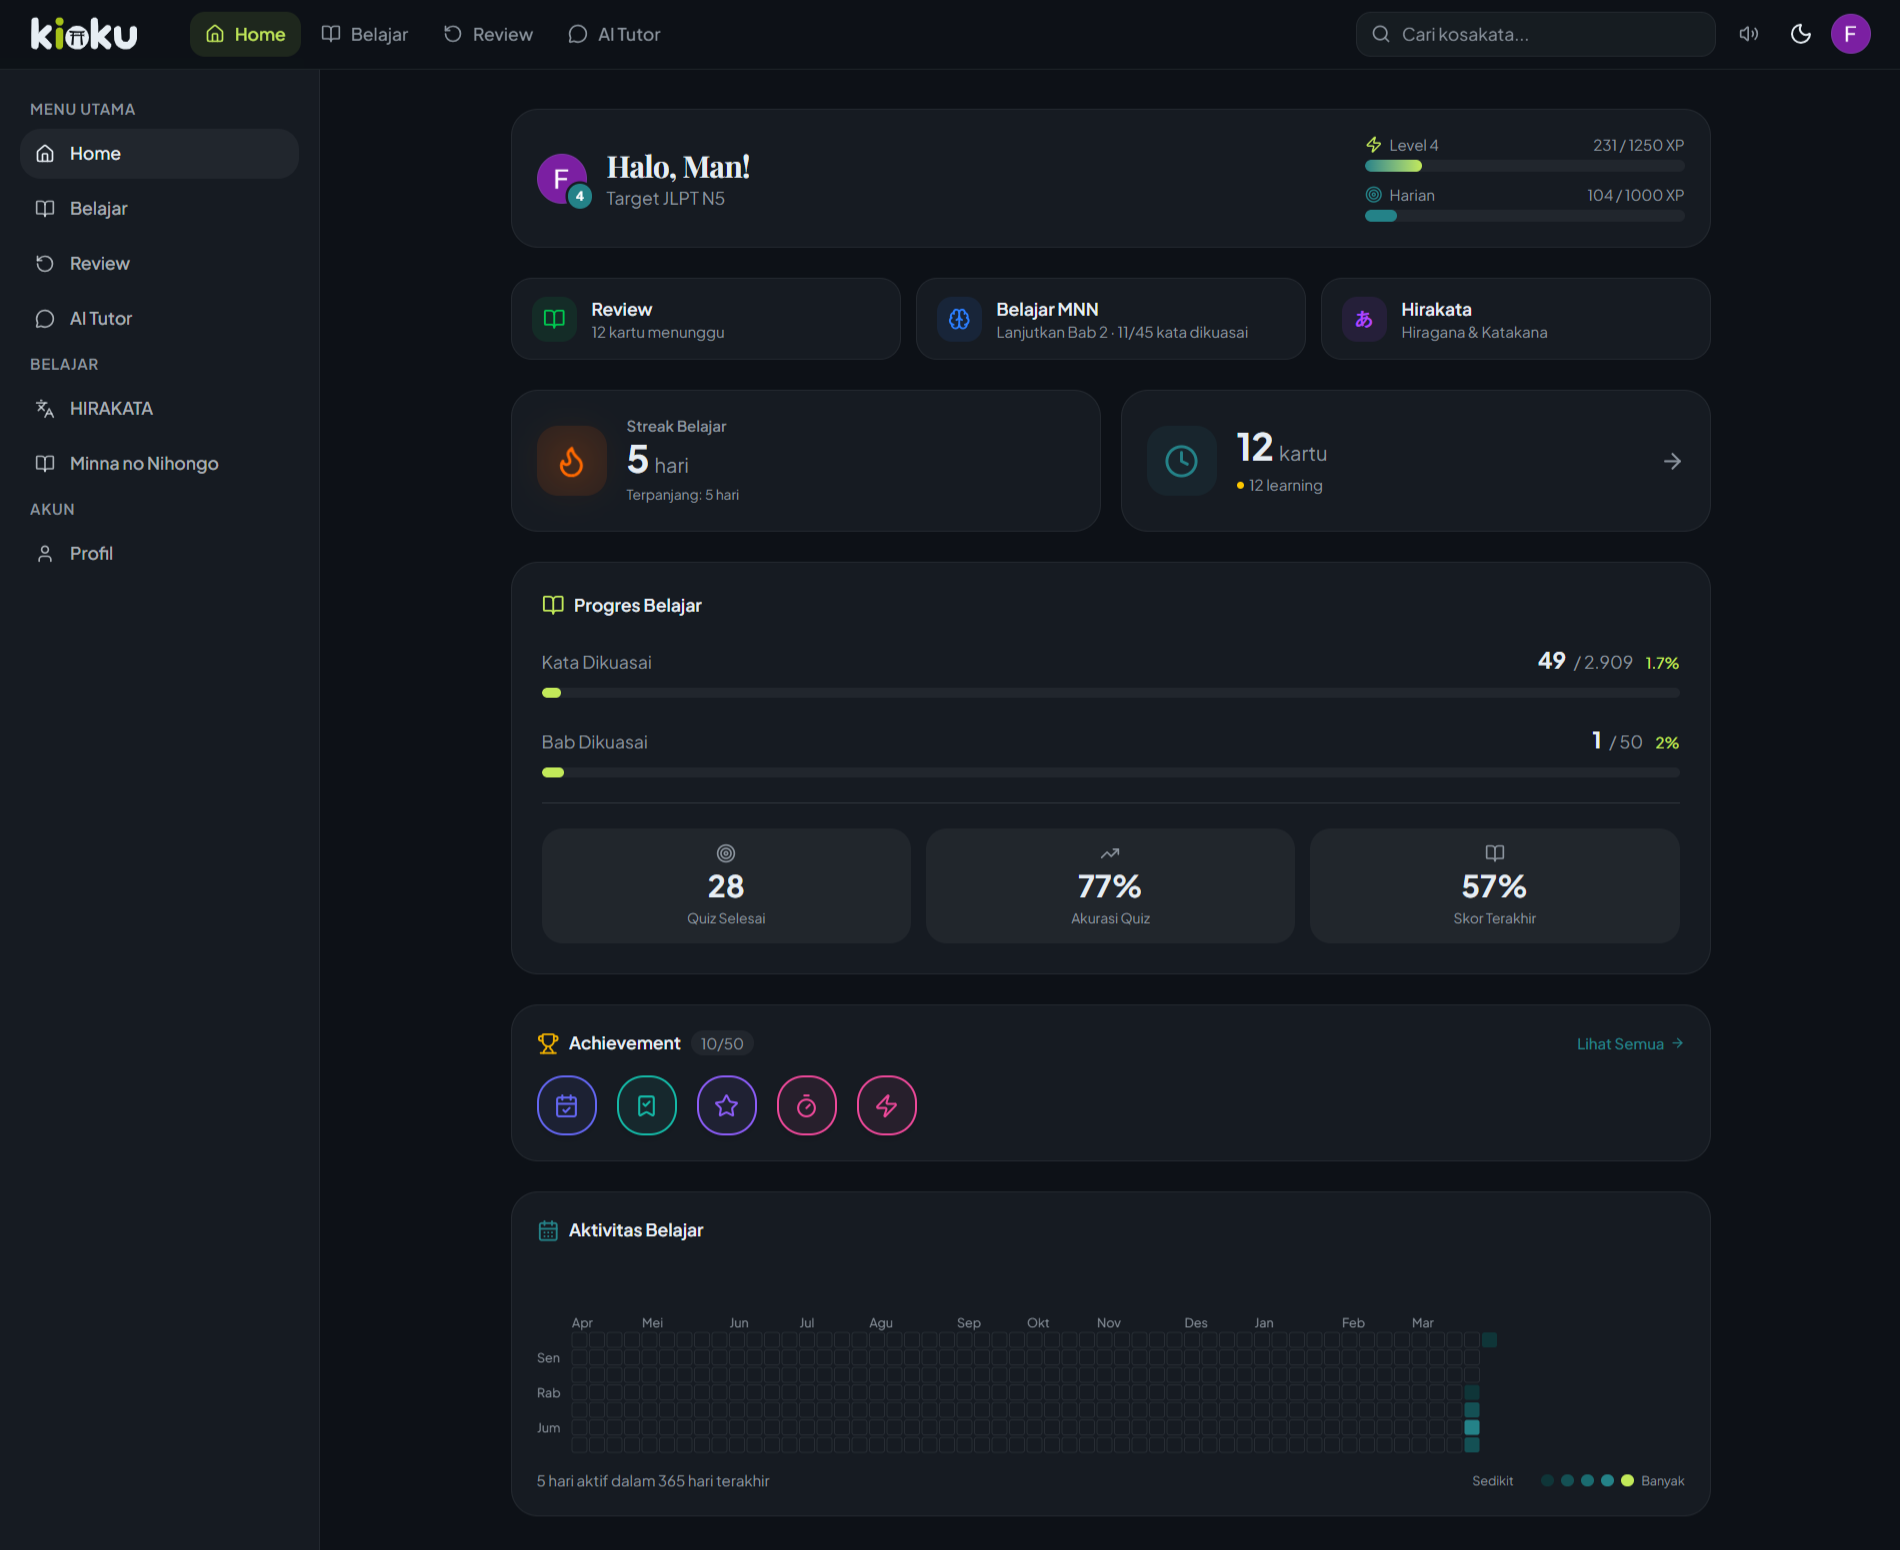
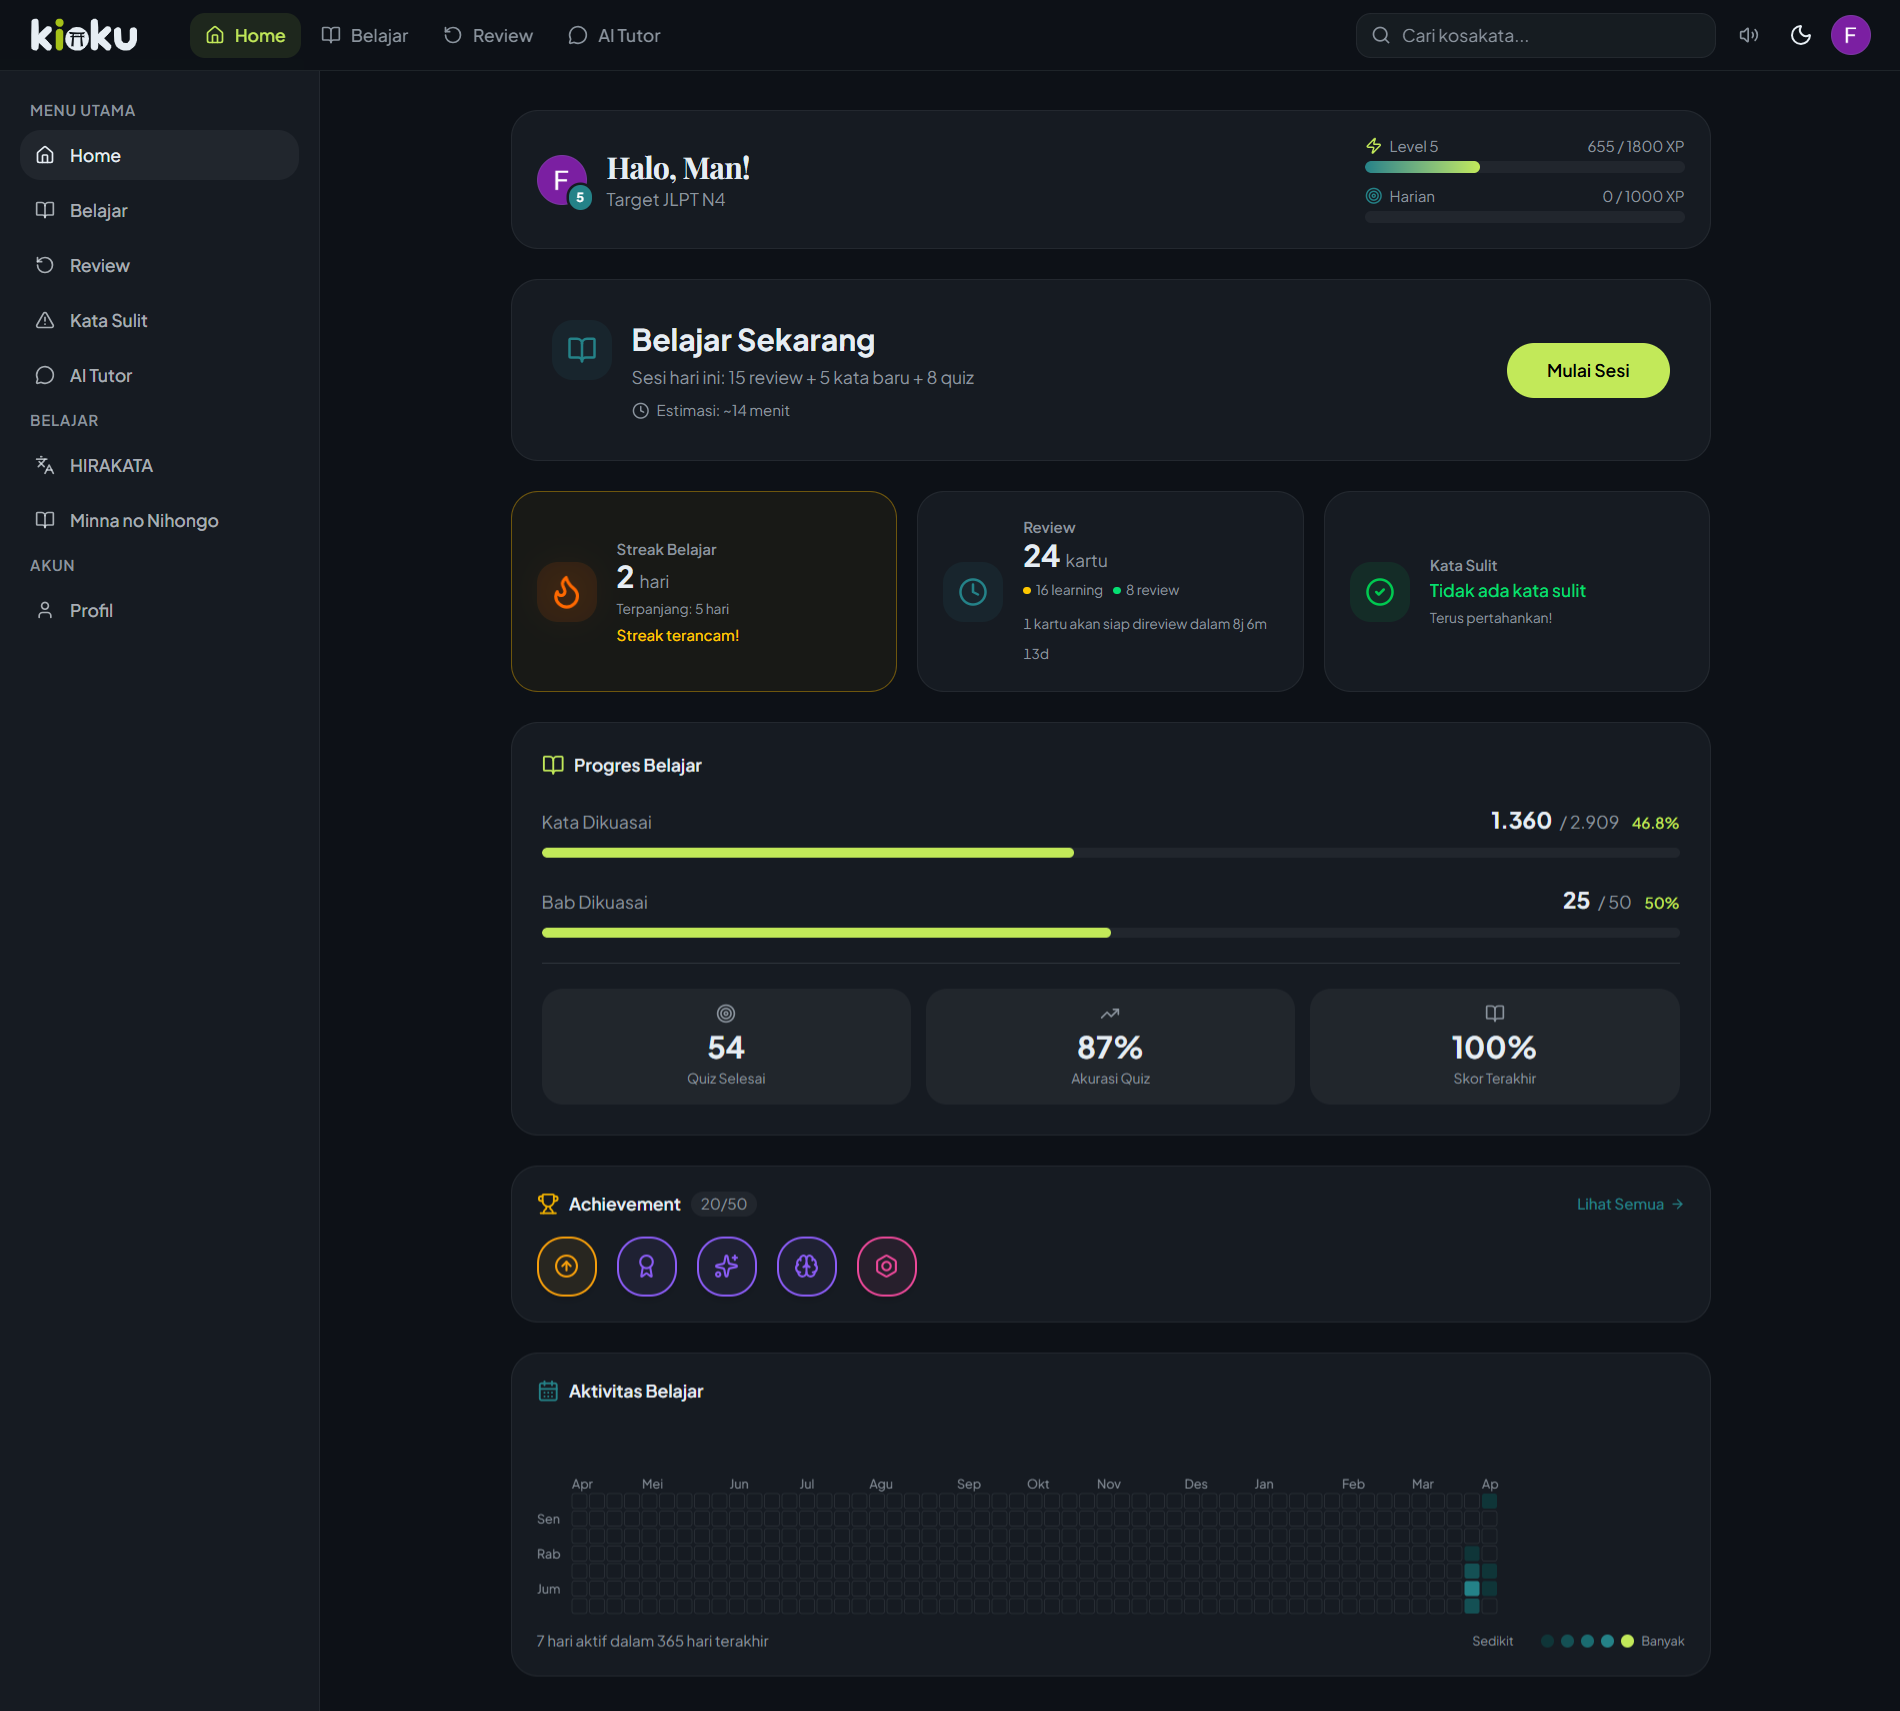
docs: update CLAUDE.md and README.md with Smart Study, Leech Detection, and all recent changes
- CLAUDE.md: Add [P5] Smart Study & Leech Detection section (28 items), new API endpoints, folder structure, technical notes
- README.md: Add Smart Study Session and Leech Detection features, 3 new screenshots, 2 new technical decisions
- Update screenshots: full-dashboard, landing (modified), smart-study-session, smart-study-summary, kata-sulit (new)

diff --git a/CLAUDE.md b/CLAUDE.md
@@ -56,6 +56,8 @@ USER:    GET|PUT /api/v1/user/profile  POST /api/v1/user/onboarding  GET /api/v1
 CONTENT: GET /api/v1/books  GET /api/v1/books/:slug/chapters  GET /api/v1/chapters/:slug(/vocabulary)
          GET /api/v1/vocabulary/:id|search  GET /api/v1/kana(/:category)  GET /api/v1/jlpt/:level/vocabulary
 SRS:     GET /api/v1/srs/due|stats  GET /api/v1/srs/chapter/:id|kana/:cat  POST /api/v1/srs/cards|review
+STUDY:   GET /api/v1/study/session|status
+LEECH:   GET /api/v1/leech/cards|confused-pairs|summary
 QUIZ:    POST /api/v1/quiz/start  POST /api/v1/quiz/:id/answer|complete  GET /api/v1/quiz/history|:id
 AI:      POST /api/v1/ai/chat(streaming)  GET /api/v1/ai/chat/sessions|:id/messages  DELETE /api/v1/ai/chat/:id
          POST /api/v1/ai/generate-questions|pronunciation/check
@@ -103,6 +105,8 @@ src/
 ├── app/(dashboard)/learn/hirakata/# HIRAKATA module
 ├── app/(dashboard)/learn/mnn/[chapter]/
 ├── app/(dashboard)/review/        # SRS review session
+├── app/(dashboard)/smart-study/   # Smart Study session (3 phases)
+├── app/(dashboard)/kata-sulit/    # Leech detection + training
 ├── app/(dashboard)/quiz/[chapter]/# Quiz session
 ├── app/(dashboard)/chat/          # AI tutor
 ├── app/(dashboard)/profile/       # Settings, stats, achievements
@@ -111,6 +115,8 @@ src/
 ├── components/{pwa,auth}/         # PWA install + auth components
 ├── lib/{srs,ai,audio,supabase}/   # Business logic
 ├── lib/{rate-limit,gamification,progress}/ # Rate limiting, XP, progress
+├── lib/{smart-study,leech}/       # Smart Study + leech detection services
+├── lib/utils/                     # Timezone (WIB) + shared utilities
 ├── stores/                        # Zustand stores
 ├── db/{schema,migrations,seed}/   # Drizzle schema + seed data
 └── types/                         # Shared TypeScript types
@@ -123,6 +129,7 @@ src/
 - **[P2] Gamification**: XP system + streak + achievements + dashboard stats + heatmap + PWA
 - **[P3] AI**: Chatbot (Gemini waterfall + streaming) + pronunciation (Web Speech API) + auto-generate quiz bank
 - **[P4] Polish & UX**: Landing page, auth redesign, review improvements, security audit, SEO, JLPT auto-upgrade
+- **[P5] Smart Study & Leech**: Smart Study session (3 phases), leech detection, dashboard redesign, bug fixes
 
 ---
 
@@ -219,6 +226,38 @@ src/
 - [x] Review bug fixes: duplicate review, reviewed_at timestamp
 - [x] Error messages translated to Indonesian
 
+### [P5] Smart Study & Leech Detection
+
+- [x] Smart Study Session ("Belajar Sekarang") — 3 phases: review due cards + learn new words + quiz
+- [x] Smart Study backend: smart-study-service.ts (generateSmartSession, getSmartSessionStatus)
+- [x] Smart Study API: GET /api/v1/study/session, GET /api/v1/study/status
+- [x] Smart Study UI: full session page with phase indicator, Framer Motion transitions
+- [x] Smart Study new words: selected based on user progress + JLPT target
+- [x] Smart Study quiz: 8 questions from mix of review + new words (no matching/speaking types)
+- [x] Smart Study summary: breakdown per phase, XP breakdown, count-up animation
+- [x] Smart Study bonus: +15 XP on session complete (idempotent)
+- [x] Smart Study: Kanji/Kana toggle in all 3 phases + feedback
+- [x] Dashboard redesign: "Belajar Sekarang" large CTA card (surface color, lime button)
+- [x] Dashboard: remove 3 old cards (Review/Belajar MNN/Hirakata)
+- [x] Dashboard: 3 small cards (Streak, Review Breakdown with countdown, Kata Sulit)
+- [x] Dashboard countdown: "X kartu siap direview sekarang" or "X kartu akan siap direview dalam..."
+- [x] Leech detection backend: leech-service.ts (getLeechCards, getConfusedPairs, getLeechSummary)
+- [x] Leech API: GET /api/v1/leech/cards, confused-pairs, summary
+- [x] Kata Sulit page (/kata-sulit): 2 tabs (Sering Lupa + Sering Tertukar) + Kanji/Kana toggle
+- [x] Leech training (/kata-sulit/latihan): Phase 1 intensive flashcard (retry 5x) + Phase 2 forced recall quiz (3 hard types)
+- [x] Sidebar badge: red badge showing leech count
+- [x] Logout overlay redesign: full-screen elegant (deep teal gradient, Framer Motion)
+- [x] CTA "Tersedia sebagai aplikasi" centered
+- [x] Streak bug fix: no reset when user skips a day, fixed with validateStreak()
+- [x] Timezone audit: 6 files fixed from UTC to WIB (Asia/Jakarta) via centralized timezone.ts
+- [x] Schema fix: 24 columns .default("now()") changed to .$defaultFn() across 6 schema files
+- [x] XP tracking: fix literal "now()" string in xp_transaction + daily_activity reset bug
+- [x] Quiz feedback: follows Kanji/Kana toggle (furigana style)
+- [x] Review countdown: clarified labels ("X kartu siap direview sekarang" vs "X kartu akan siap direview dalam...")
+- [x] OG image path fix
+- [x] Unused imports cleanup
+- [x] Comprehensive audit: 80+ checks across 16 areas, zero remaining issues
+
 ---
 
 ## Catatan Teknis (Diupdate Seiring Development)
@@ -234,3 +273,9 @@ src/
 - Onboarding: FORCED — dashboard layout redirect ke /onboarding jika onboarding_done = false.
 - Security: SECURITY-AUDIT.md full report. Rate limiting in-memory. Security headers di next.config.ts.
 - Daily goal: 5 tier (100/300/500/750/1000 XP).
+- Smart Study kata baru: berdasarkan progress aktual user, bukan hanya JLPT target. JLPT target hanya starting point untuk user baru.
+- Leech threshold: lapses >= 4. Confused pairs: dari quiz_answer history, confusion_count >= 2.
+- Bonus XP: smart study session complete +15 XP, leech training complete +20 XP.
+- Timezone utility: `src/lib/utils/timezone.ts` — single source of truth untuk semua date calculations (WIB/Asia/Jakarta).
+- Schema timestamps: semua pakai `.$defaultFn(() => new Date().toISOString())`, bukan `.default("now()")`.
+- Streak validation: validateStreak() dipanggil saat dashboard load, tidak auto-reset jika user skip hari.

diff --git a/README.md b/README.md
@@ -50,6 +50,15 @@ Content sourced from **Minna no Nihongo** Book I (Ch. 1-25, JLPT N5) and Book II
 ### Hiragana & Katakana Grid
 ![Kana Grid](./public/screenshots/kana-grid-kioku.png)
 
+### Smart Study Session
+![Smart Study](./public/screenshots/smart-study-session-kioku.png)
+
+### Session Summary with XP Breakdown
+![Summary](./public/screenshots/smart-study-summary-kioku.png)
+
+### Kata Sulit (Leech Detection)
+![Kata Sulit](./public/screenshots/kata-sulit-kioku.png)
+
 ### Review Summary
 ![Review](./public/screenshots/review-summary-kioku.png)
 
@@ -60,10 +69,12 @@ Content sourced from **Minna no Nihongo** Book I (Ch. 1-25, JLPT N5) and Book II
 ## Features
 
 ### Learning
+- **Smart Study Session** — One-click optimal study session ("Belajar Sekarang") with 3 phases: review due cards, learn new words, and quiz. Adaptive chapter selection based on JLPT target and user progress
 - **HIRAKATA Module** — Learn 214 hiragana & katakana characters with an interactive color-coded grid, flashcards, and quizzes
 - **MNN Vocabulary** — 2,909 words from Minna no Nihongo Ch. 1-50 (JLPT N5 & N4), with Indonesian translations
 - **Vocabulary Flashcard** — 2-button design (Don't Know / Know) with retry queue (max 3x), simpler than Anki's 4-button approach
 - **SRS Review** — 4-button FSRS rating (Again / Hard / Good / Easy) with re-queue for failed cards (max 3x)
+- **Leech Detection ("Kata Sulit")** — Automatic detection of frequently forgotten words (lapses >= 4) and confused word pairs from quiz history. Specialized training with intensive flashcard (5x retry) and forced recall quiz
 - **Duolingo-style Quiz** — 7 question types: multiple choice (JP-ID, ID-JP), audio recognition, type hiragana, fill-in-the-blank, matching, speaking. 20 questions per session with answer explanations
 - **Kanji/Kana Toggle** — Switch between kanji and kana-only display across flashcards, quizzes, and reviews
 - **Native Audio** — 3,085 pre-generated audio files using Microsoft Edge TTS (ja-JP-NanamiNeural voice)
@@ -82,6 +93,7 @@ Content sourced from **Minna no Nihongo** Book I (Ch. 1-25, JLPT N5) and Book II
 - **Daily Goal** — 5 configurable tiers (100 / 300 / 500 / 750 / 1,000 XP) with goal-met bonus
 
 ### Smart Navigation
+- **Redesigned Dashboard** — Prominent "Belajar Sekarang" CTA, review countdown timer with clear labels, leech card indicator with sidebar badge
 - **JLPT-Aware** — Dashboard recommends chapters matching the user's target level
 - **Auto-upgrade** — Automatically advances from N5 to N4 when all Book 1 chapters are mastered via quiz
 - **Progress Tracking** — Quiz-based mastery: a word is "mastered" when answered correctly in a quiz
@@ -244,7 +256,7 @@ src/
 ├── app/
 │   ├── (auth)/            # Login, register, magic link
 │   ├── (onboarding)/      # Forced onboarding flow
-│   ├── (dashboard)/       # Dashboard, learn, review, quiz, chat, profile
+│   ├── (dashboard)/       # Dashboard, learn, review, quiz, chat, profile, smart-study, kata-sulit
 │   └── api/               # API routes (auth, v1/*)
 ├── components/
 │   ├── flashcard/         # Flashcard components (3D flip)
@@ -260,6 +272,8 @@ src/
 │   ├── ai/                # AI provider waterfall + system prompt
 │   ├── audio/             # Audio playback + pronunciation scoring
 │   ├── gamification/      # XP, streak, achievement services
+│   ├── smart-study/       # Smart Study session service
+│   ├── leech/             # Leech detection + confused pairs
 │   ├── progress/          # Chapter progress + quiz mastery
 │   ├── rate-limit/        # In-memory sliding window rate limiter
 │   ├── supabase/          # Supabase client helpers
@@ -280,9 +294,11 @@ src/
 | **Flashcard: 2 buttons** vs Review: 4 FSRS buttons | Simpler UX for learning; full FSRS control only during review sessions |
 | **Quiz-based mastery** instead of SRS-based | More intuitive — users understand "answered correctly in quiz" better than SRS status |
 | **AI waterfall** (multi-provider) | Maximizes reliability on free tiers; no single point of failure |
-| **WIB timezone** for all dates | Target audience is Indonesian; avoids UTC date boundary confusion |
+| **WIB timezone** for all dates | Target audience is Indonesian; avoids UTC date boundary confusion. Centralized via `timezone.ts` |
 | **Pre-generated audio** (3,085 files) | Zero runtime cost, instant playback, no TTS API dependency at runtime |
 | **2,909 published** out of 2,692 total vocab | Unpublished entries (`is_published = false`) are words not in the MNN textbook PDFs |
+| **Smart Study adaptive selection** | New words chosen based on actual user progress, not just JLPT target (target is only the starting point for new users) |
+| **Leech detection** (lapses >= 4) | Automatically identifies frequently forgotten words; confused pairs from quiz history (>= 2 occurrences) |
 
 ---
 
